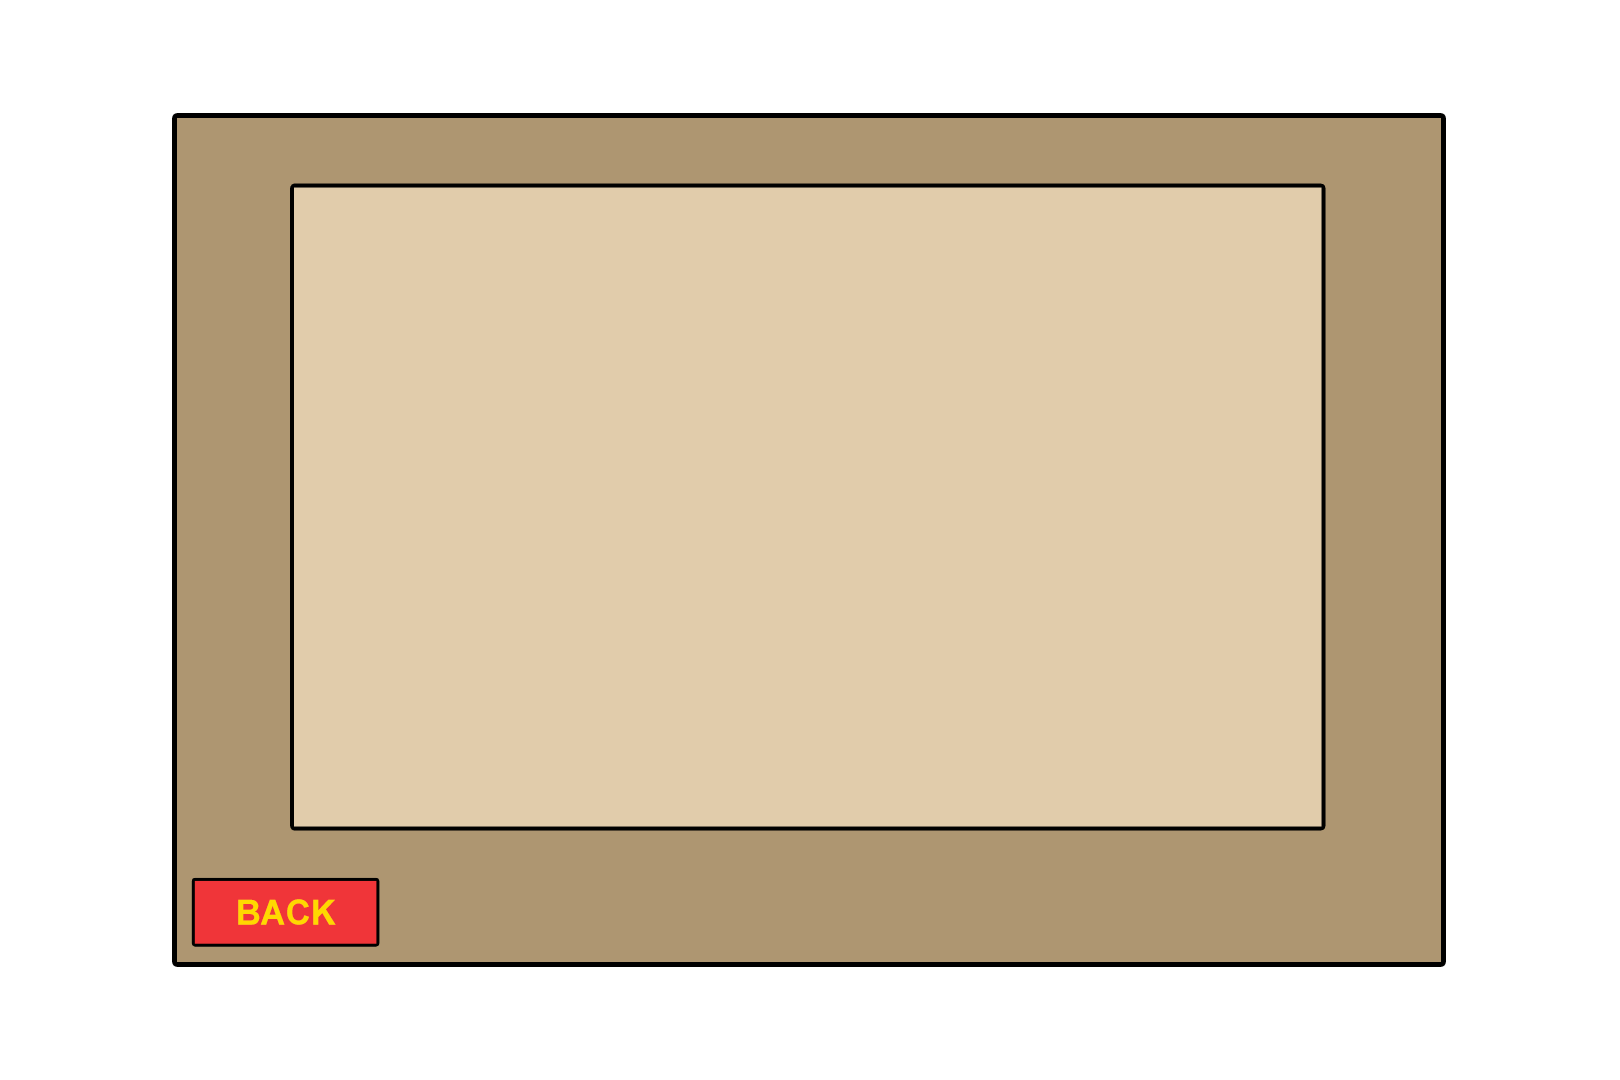
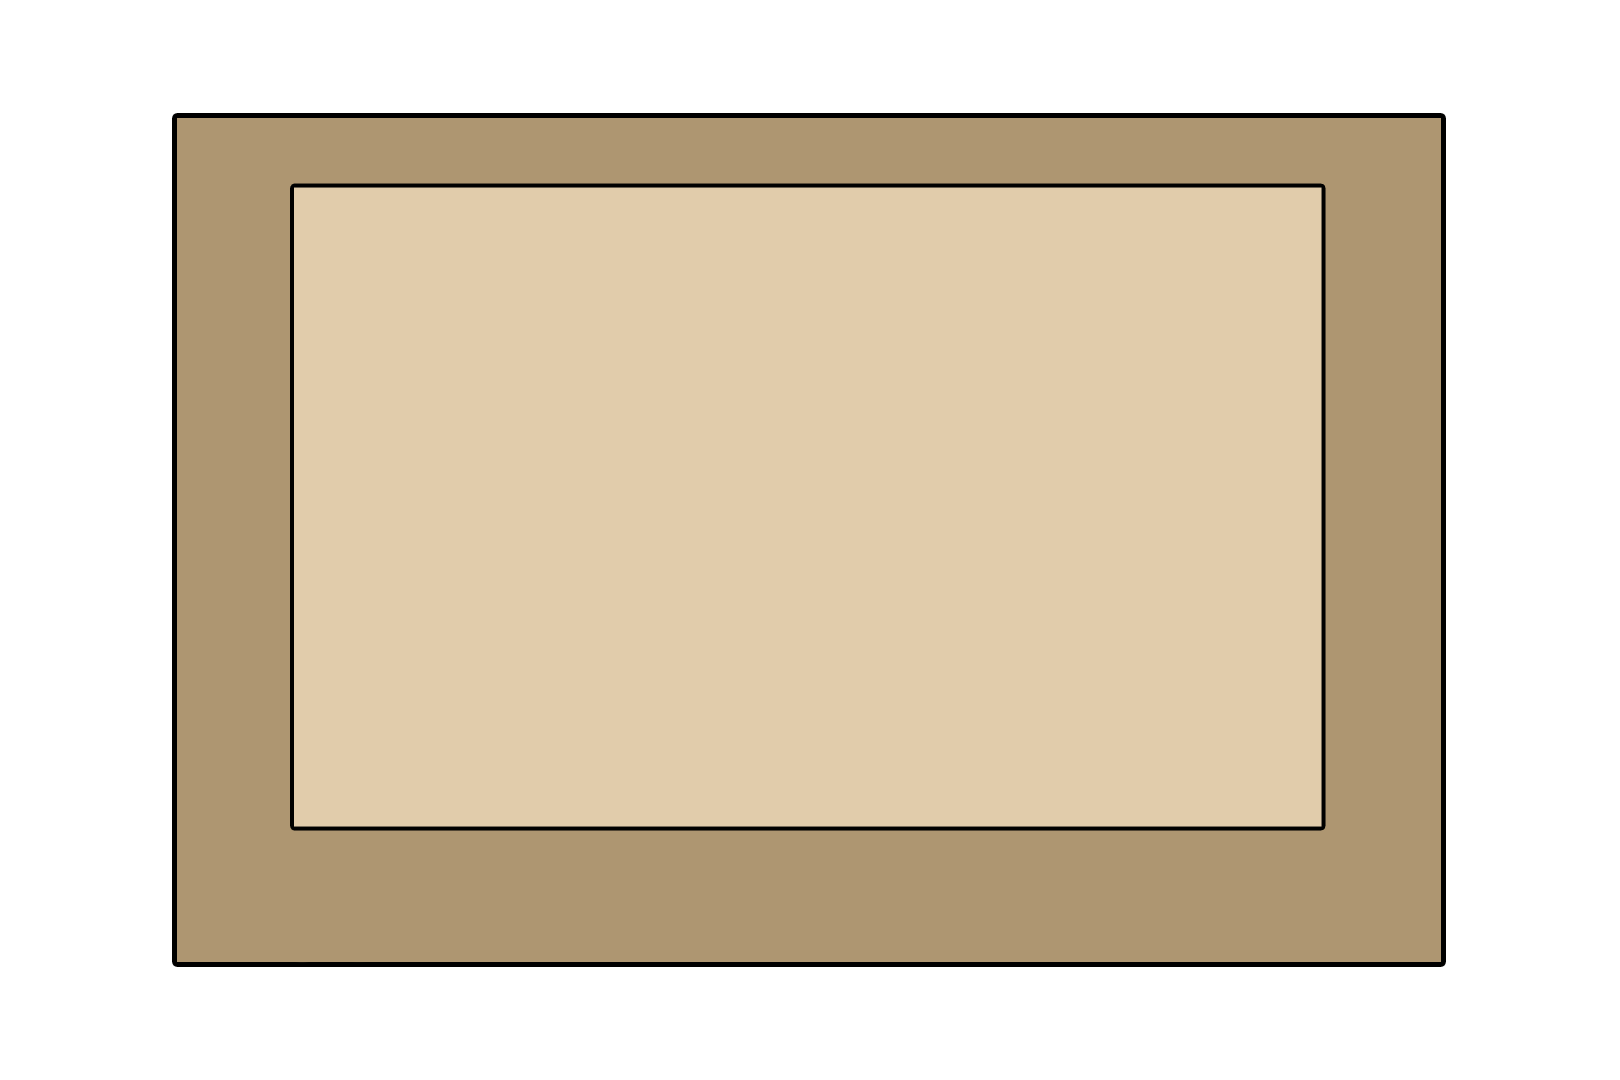
Improved menus overall

Changed region(s): [[0.0926, 0.7944, 0.2469, 0.8861]]

diff --git a/Motor2D/j1ActionsController.cpp b/Motor2D/j1ActionsController.cpp
@@ -227,6 +227,15 @@ bool j1ActionsController::Update(float dt)
 			doingAction = false;
 			return false;
 			break;
+		case CROSS_MENU:
+			App->uiscene->toggleMenu(false, CREDITS_MENU);
+			App->uiscene->toggleMenu(false, SETTINGS_MENU);
+			doingAction = false;
+			break;
+		case CHANGE_HOTKEYS:
+			App->uiscene->toggleMenu(true, CHANGE_HOTKEYS_MENU);
+			doingAction = false;
+			break;
 		}
 		
 	}

diff --git a/Motor2D/j1ActionsController.h b/Motor2D/j1ActionsController.h
@@ -42,7 +42,9 @@ enum actionType
 	SETTINGS,
 	BACK_MENU,
 	CREDITS,
-	EXIT
+	EXIT,
+	CROSS_MENU,
+	CHANGE_HOTKEYS,
 };
 
 class j1ActionsController : public j1Module

diff --git a/Motor2D/j1UIScene.h b/Motor2D/j1UIScene.h
@@ -13,6 +13,7 @@ enum menu_id
 	GAMEOVER_MENU,
 	CREDITS_MENU,
 	CONTROLS_MENU,
+	CHANGE_HOTKEYS_MENU,
 
 	NO_MENU
 };
